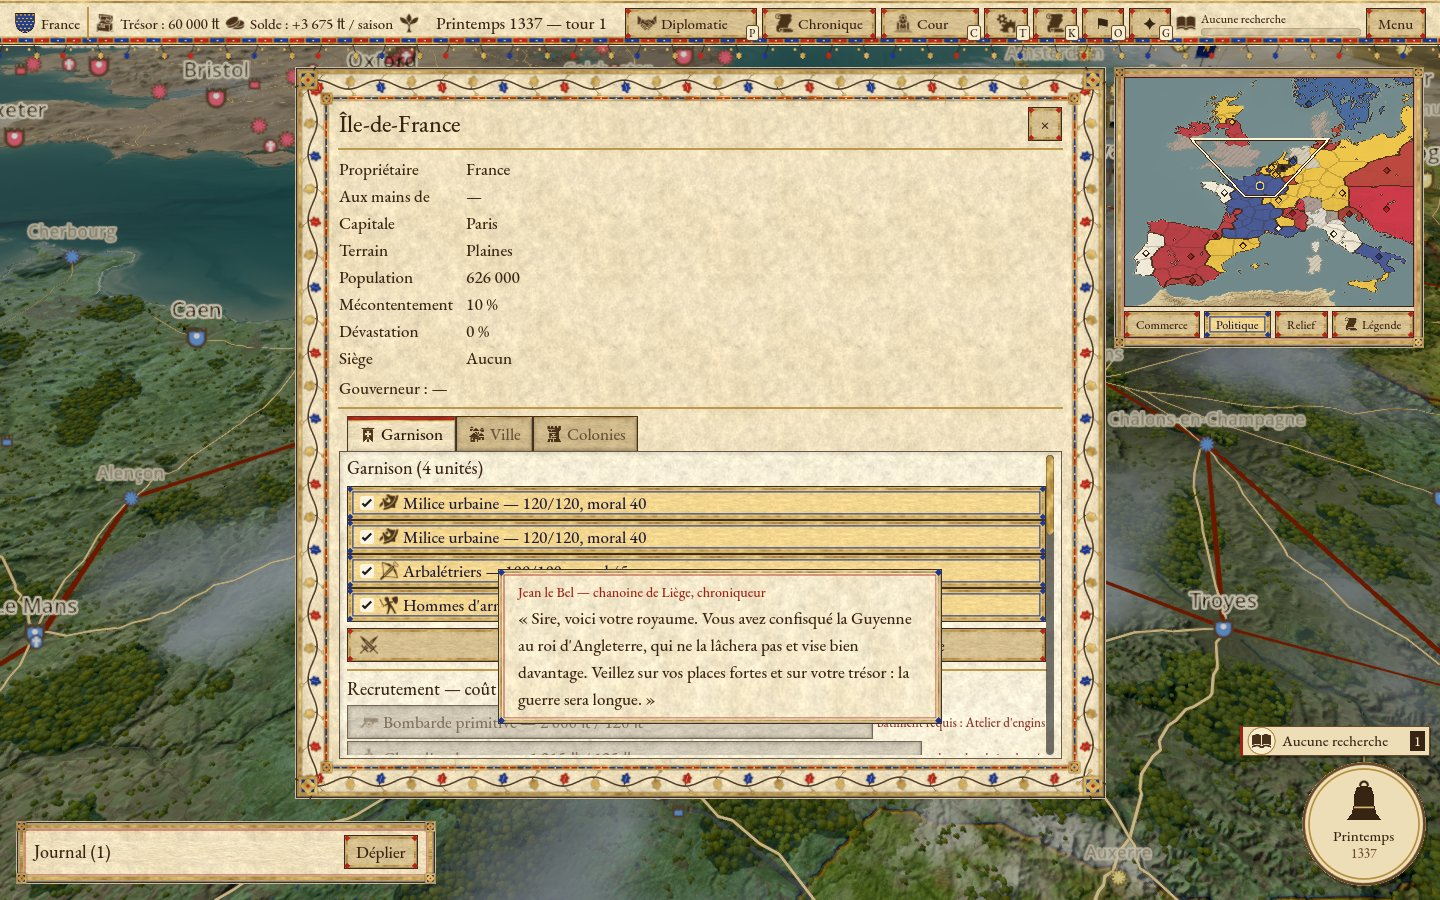
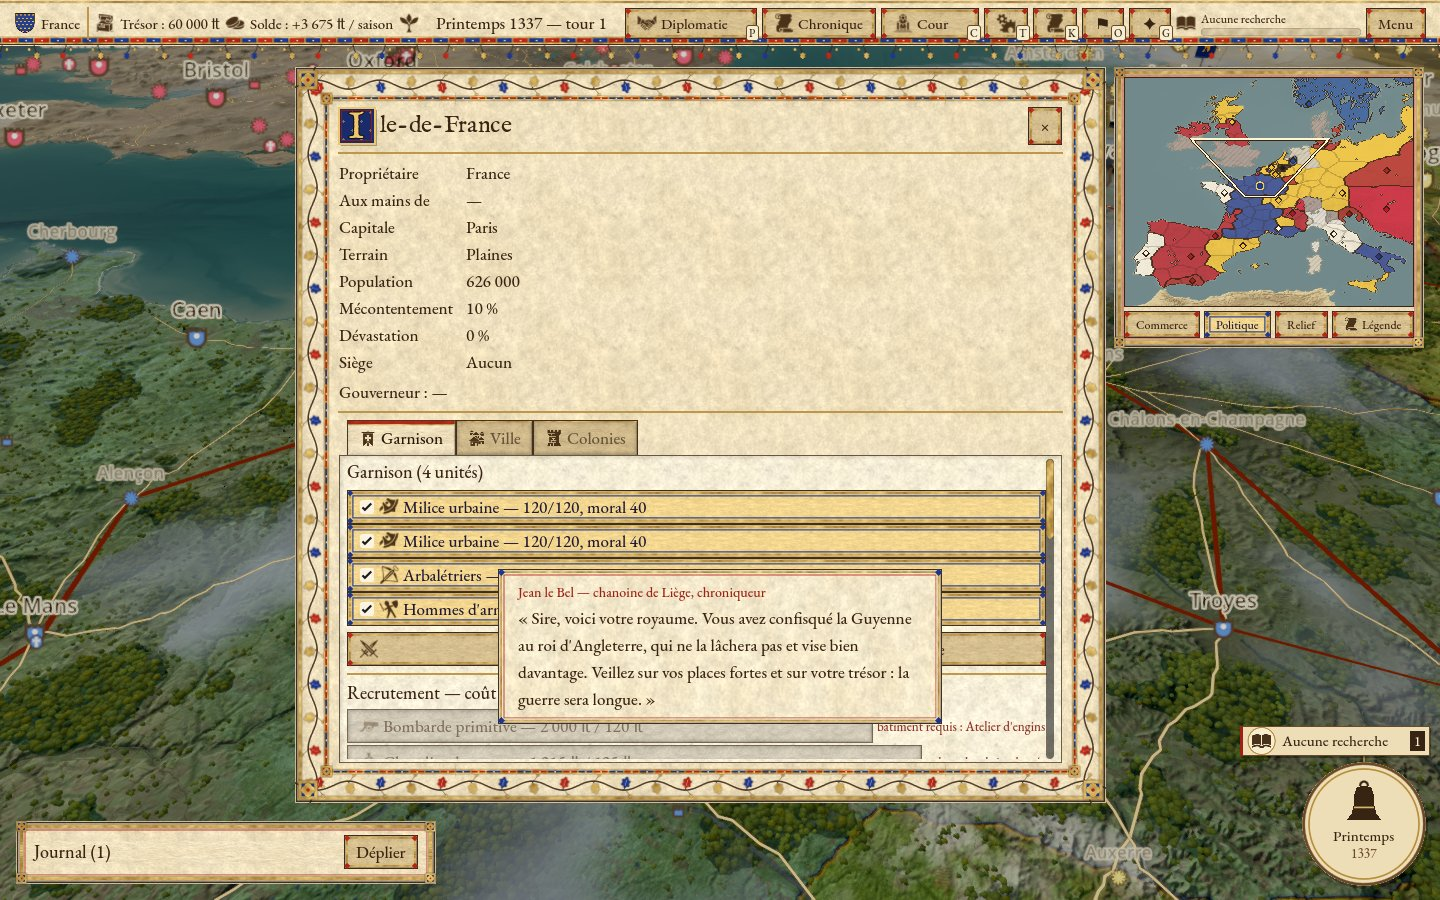
feat(ui1): illuminated drop caps on window titles; build.sh replaces dylib instead of overwriting

diff --git a/docs/wip/ui1-enluminures.md b/docs/wip/ui1-enluminures.md
@@ -14,8 +14,13 @@ belle, avec des assets « moines », enluminures. Décision : ADR 0050.
 - [x] Captures `docs/img/ui1/` ; smoke : pas de régression (échecs restants préexistants :
       niveaux de difficulté, playlists musicales)
 
+- [x] Lettrines des titres de fenêtres : `Lettrine.attach(label)` sur province, cour, faction,
+      techniques, fiche de personnage ; test `tests/ui1_lettrine_test.gd`
+- [x] `core/build.sh` : supprime la dylib avant de la copier (sinon signature macOS invalidée →
+      Godot tué, code 137)
+
 ## Pistes (non faites)
-- Lettrines enluminées pour les titres de fenêtres (IM Fell, première lettre sur champ d'azur).
+- Lettrine pour la chronique (titre centré et à retour à la ligne : non géré par `Lettrine`).
 - Encore ~25 `StyleBoxFlat` locaux (lignes de sauvegarde, pastilles, cartes d'unité) : volontairement
   plats (couleurs porteuses de sens) ou à reprendre au cas par cas.
 - Captures : `godot --path game --script res://tests/ui1_capture.gd -- --out=<dossier>`.

diff --git a/docs/decisions/0050-interface-enluminee-kit-9-slice.md b/docs/decisions/0050-interface-enluminee-kit-9-slice.md
@@ -35,3 +35,8 @@ lisible mais triste. Demande du joueur : des assets « moines », enluminures.
   cadre réel. Les boîtes de bataille gardent exactement leurs anciennes marges.
 - Retoucher le style = modifier le générateur puis relancer la commande ; les marges du thème
   suivent `kit.json`.
+- **Lettrines de titres** (ajout du 2026-09-25) : `Lettrine.attach(label)` (`scripts/ui/lettrine.gd`)
+  pose une initiale d'or sur champ d'azur en surimpression du titre des grandes fenêtres
+  (province, cour, faction, techniques, fiche). Le `Label` garde son texte (scripts et tests le
+  lisent toujours) et devient transparent ; l'initiale est dessinée sans accent, comme dans les
+  manuscrits.
